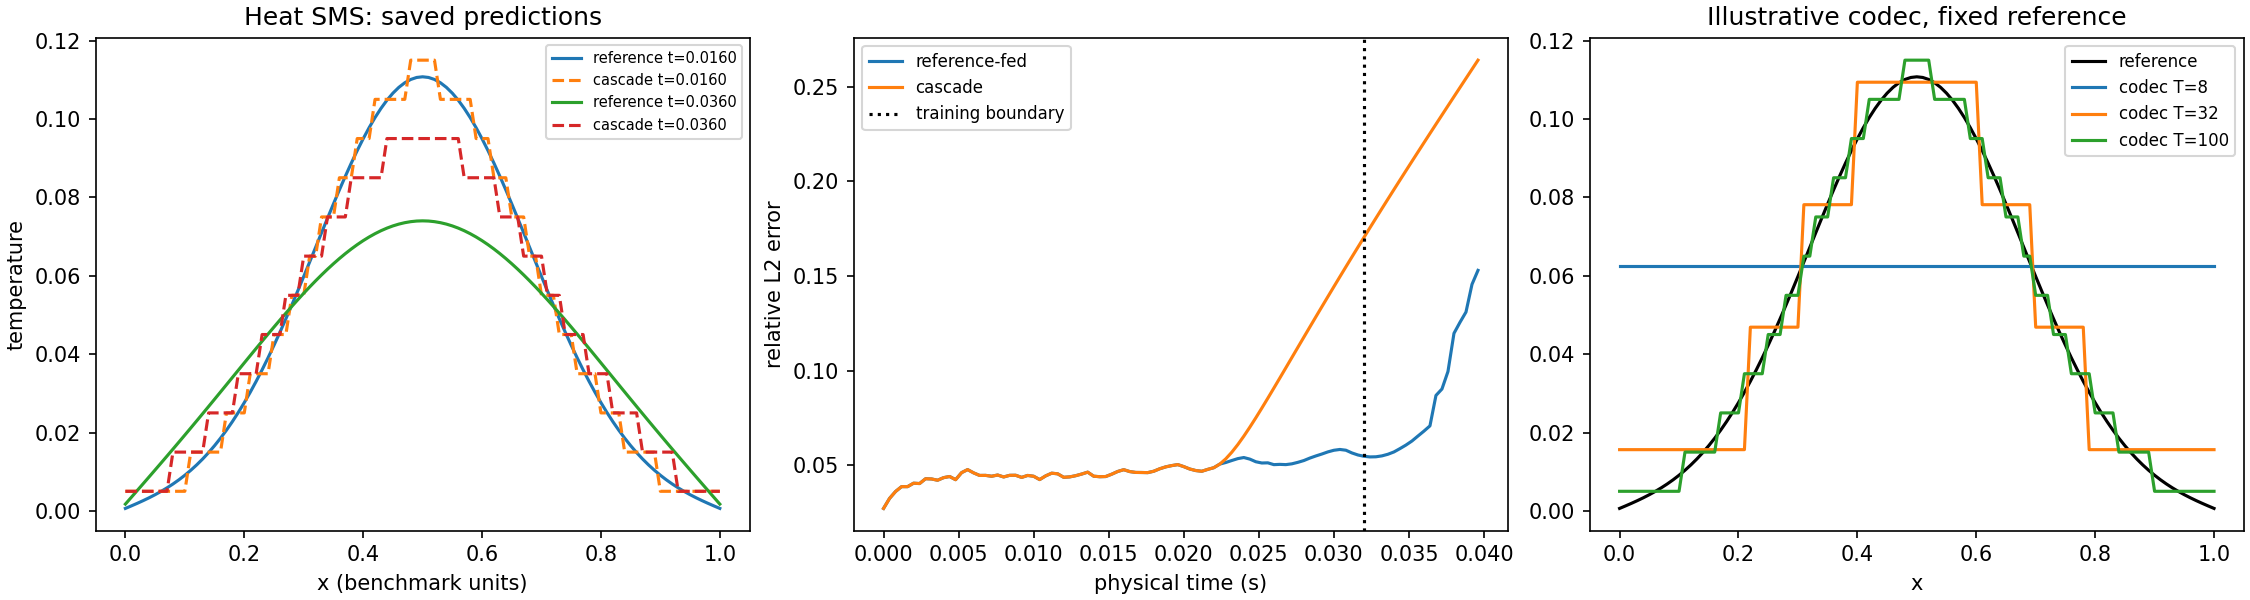
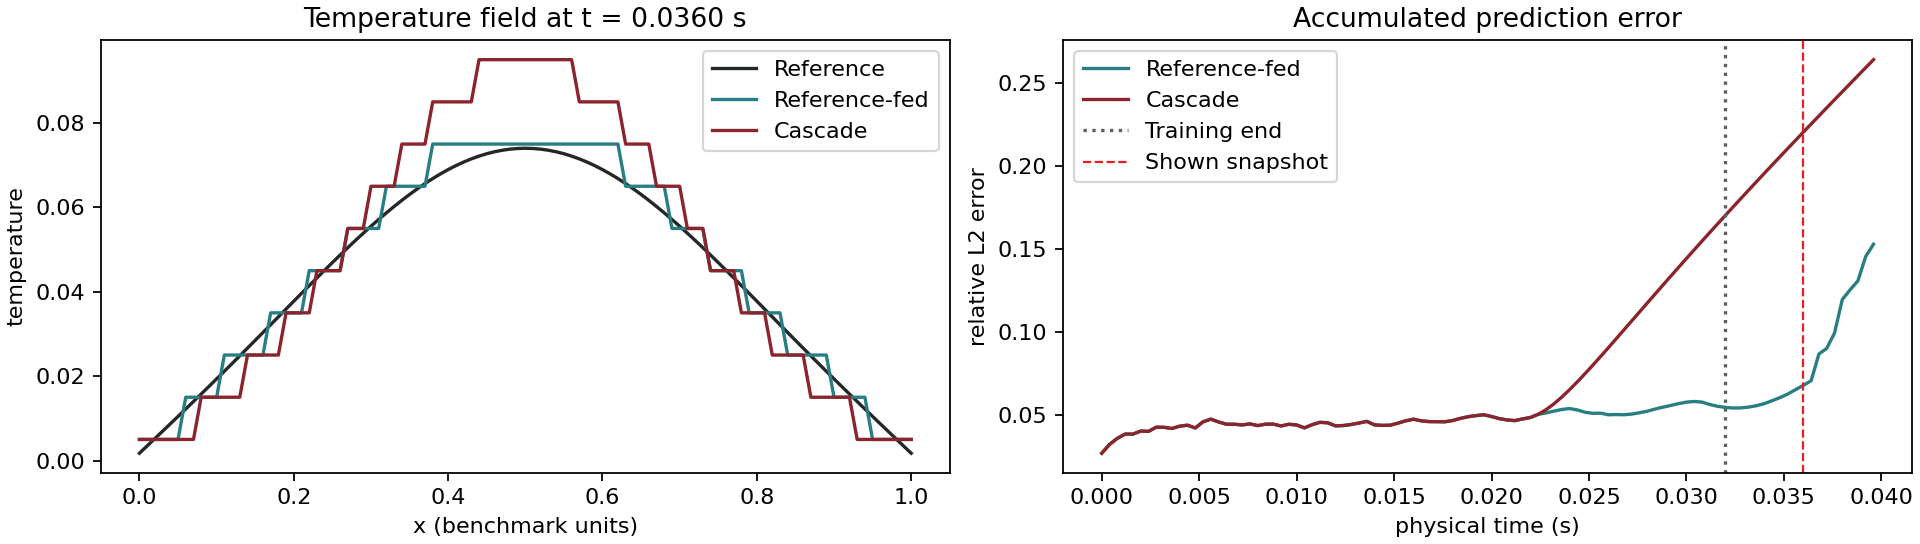
slides: remove codec panel from SMS rollout

diff --git a/components/SMSRollout.vue b/components/SMSRollout.vue
@@ -1,22 +1,19 @@
 <script setup lang="ts">
-import { computed,ref } from 'vue'
+import { computed } from 'vue'
 import { useDefenseAsset,row } from '../composables/useDefenseAsset'
 import { usePlayback } from '../composables/usePlayback'
 const {payload:p,error,staticMode}=useDefenseAsset('ch02/sms_longtime_rollout')
 const count=computed(()=>p.value?.time.shape[0]||100)
 const {index,playing,toggle,seek,reset}=usePlayback(count,40,110)
-const level=ref(2)
 const field=computed(()=>p.value?[{name:'Reference',color:'#232727',y:row(p.value.reference_state,index.value)},{name:'Reference-fed',color:'#287e83',y:row(p.value.one_step_state,index.value)},{name:'Cascade',color:'#8b242d',y:row(p.value.cascade_state,index.value)}]:[])
 const errors=computed(()=>p.value?[{name:'Reference-fed',color:'#287e83',y:p.value.one_step_error.values},{name:'Cascade',color:'#8b242d',y:p.value.cascade_error.values}]:[])
-const codec=computed(()=>{if(!p.value)return [];const t=p.value.T_approximation;const offset=(level.value*count.value+index.value)*101;return [{name:'Reference',color:'#232727',y:row(p.value.reference_state,index.value)},{name:'Codec',color:'#b27a29',y:t.values.subarray(offset,offset+101)}]})
 </script>
 <template>
-<FigureFrame fallback="/fallback_figures/ch02/sms_longtime_rollout.png" :ready="!!p" :error="error" :static-mode="staticMode" caption="Heat equation · K=100 · first two frames initialized · selected-T codec views are illustrative, not retrained models.">
-  <div class="three" style="gap:20px;height:300px">
-    <div><div class="chart-label">Temperature field</div><div class="legend"><span v-for="s in field" :key="s.name" :style="{'--series':s.color}">{{s.name}}</span></div><TracePlot :x="p.coordinates.values" :series="field" x-label="x · benchmark units" y-label="temperature" /></div>
-    <div><div class="chart-label">Accumulated prediction error</div><div class="legend"><span v-for="s in errors" :key="s.name" :style="{'--series':s.color}">{{s.name}}</span></div><TracePlot :x="p.time.values" :series="errors" :cursor="index" :boundary="p.training_end_time" x-label="physical time · s" y-label="relative L₂" @seek="seek" /></div>
-    <div><div class="chart-label">Codec approximation · illustrative</div><div class="legend"><span style="--series:#232727">Reference</span><span style="--series:#b27a29">T={{p.selected_T.values[level]}}</span></div><TracePlot :x="p.coordinates.values" :series="codec" x-label="x · benchmark units" y-label="decoded field" /></div>
+<FigureFrame fallback="/fallback_figures/ch02/sms_longtime_rollout.png" :ready="!!p" :error="error" :static-mode="staticMode" caption="Heat equation · K=100 · first two frames initialized · reference-fed and recursive cascade predictions.">
+  <div class="cols" style="gap:35px;height:320px">
+    <div><div class="chart-label">Temperature field</div><div class="legend"><span v-for="s in field" :key="s.name" :style="{'--series':s.color}">{{s.name}}</span></div><TracePlot :x="p.coordinates.values" :series="field" :width="500" :height="250" x-label="x · benchmark units" y-label="temperature" /></div>
+    <div><div class="chart-label">Accumulated prediction error</div><div class="legend"><span v-for="s in errors" :key="s.name" :style="{'--series':s.color}">{{s.name}}</span></div><TracePlot :x="p.time.values" :series="errors" :width="500" :height="250" :cursor="index" :boundary="p.training_end_time" x-label="physical time · s" y-label="relative L₂" @seek="seek" /></div>
   </div>
-  <div class="plot-controls"><button @click="toggle">{{playing?'Pause':'Play'}}</button><button @click="reset">Reset</button><input aria-label="SMS physical time" type="range" min="0" :max="count-1" :value="index" @input="seek(Number(($event.target as HTMLInputElement).value))"><output>{{p.time.values[index].toFixed(4)}} s</output><label for="codec-t">Codec T</label><select id="codec-t" v-model.number="level"><option v-for="(t,i) in Array.from(p.selected_T.values)" :key="i" :value="i">{{t}}</option></select></div>
+  <div class="plot-controls"><button @click="toggle">{{playing?'Pause':'Play'}}</button><button @click="reset">Reset</button><input aria-label="SMS physical time" type="range" min="0" :max="count-1" :value="index" @input="seek(Number(($event.target as HTMLInputElement).value))"><output>{{p.time.values[index].toFixed(4)}} s</output></div>
 </FigureFrame>
 </template>

diff --git a/scripts/export_defense_assets.py b/scripts/export_defense_assets.py
@@ -54,18 +54,23 @@ def sms(a,m):
              T_approximation_axes=['selected_T','physical_time','space'],
              T_approximation_status='illustrative',
              T_approximation_note=m['selected_T_note']+' Source midpoint decoding is retained, including its upper-end overshoot; no convergence claim for learned rollouts.')
-    fig,ax=plt.subplots(1,3,figsize=(15,4),layout='constrained')
-    for i in [40,90]:
-        ax[0].plot(a['coordinates'],a['reference_state'][i],label=f'reference t={a["time"][i]:.4f}')
-        ax[0].plot(a['coordinates'],a['cascade_state'][i],'--',label=f'cascade t={a["time"][i]:.4f}')
-    ax[0].set(xlabel='x (benchmark units)',ylabel='temperature',title='Heat SMS: saved predictions'); ax[0].legend(fontsize=7)
-    ax[1].plot(a['time'],one_error,label='reference-fed'); ax[1].plot(a['time'],cascade_error,label='cascade')
-    ax[1].axvline(cfg['training_end_time'],color='k',ls=':',label='training boundary')
-    ax[1].set(xlabel='physical time (s)',ylabel='relative L2 error'); ax[1].legend(fontsize=8)
-    ax[2].plot(a['coordinates'],a['reference_state'][40],color='k',label='reference')
-    for T,v in zip(levels,approximations): ax[2].plot(a['coordinates'],v[40],label=f'codec T={T}')
-    ax[2].set(title='Illustrative codec, fixed reference',xlabel='x'); ax[2].legend(fontsize=8)
-    return p,fig
+    return p,plot_sms(a,cfg['training_end_time'],one_error,cascade_error)
+
+
+def plot_sms(a,training_end_time,one_error,cascade_error):
+    fig,ax=plt.subplots(1,2,figsize=(12,3.4),layout='constrained')
+    i=90
+    for key,label,color in [('reference_state','Reference','#232727'),('one_step_state','Reference-fed','#287e83'),('cascade_state','Cascade','#8b242d')]:
+        ax[0].plot(a['coordinates'],a[key][i],label=label,color=color)
+    ax[0].set(xlabel='x (benchmark units)',ylabel='temperature',title=f'Temperature field at t = {a["time"][i]:.4f} s')
+    ax[0].legend(fontsize=10)
+    ax[1].plot(a['time'],one_error,label='Reference-fed',color='#287e83')
+    ax[1].plot(a['time'],cascade_error,label='Cascade',color='#8b242d')
+    ax[1].axvline(training_end_time,color='#596361',ls=':',label='Training end')
+    ax[1].axvline(a['time'][i],color='#ED1C24',ls='--',lw=1,label='Shown snapshot')
+    ax[1].set(xlabel='physical time (s)',ylabel='relative L2 error',title='Accumulated prediction error')
+    ax[1].legend(fontsize=10)
+    return fig
 
 
 def conversion(a,m):

diff --git a/scripts/prepare_sms_fallback.py b/scripts/prepare_sms_fallback.py
@@ -1,0 +1,33 @@
+"""Publish the two-panel SMS fallback from unchanged saved browser predictions."""
+from datetime import datetime, timezone
+import hashlib
+import json
+import os
+from pathlib import Path
+import shutil
+import numpy as np
+from export_defense_assets import plot_sms, plt
+
+assert os.environ.get('SLURM_JOB_ID'), 'Run figure preparation in Slurm'
+root=Path(__file__).resolve().parents[1]
+manifest_path=root/'public/data/manifest.json'
+manifest=json.loads(manifest_path.read_text())
+entry=next(a for a in manifest['assets'] if a['asset_id']=='ch02/sms_longtime_rollout')
+payload=json.loads((manifest_path.parent/entry['path']).read_text())['data']['states'][0]['payload']
+def array(key):
+    tensor=payload[key]
+    return np.asarray(tensor['values']).reshape(tensor['shape'])
+arrays={key:array(key) for key in ['time','coordinates','reference_state','one_step_state','cascade_state']}
+fig=plot_sms(arrays,payload['training_end_time'],array('one_step_error'),array('cascade_error'))
+stamp=datetime.now(timezone.utc).strftime('%Y%m%dT%H%M%S')+'-sms-'+os.environ['SLURM_JOB_ID']
+out=manifest_path.parent/'releases'/stamp/'ch02'
+out.mkdir(parents=True)
+png=out/'sms_longtime_rollout.png'
+fig.savefig(png,dpi=160)
+plt.close(fig)
+shutil.copyfile(png,root/'public/fallback_figures/ch02/sms_longtime_rollout.png')
+entry['fallback_path']='/'+png.relative_to(root/'public').as_posix()
+entry['fallback_sha256']=hashlib.sha256(png.read_bytes()).hexdigest()
+manifest['generated_at']=datetime.now(timezone.utc).isoformat()
+manifest_path.write_text(json.dumps(manifest,indent=2)+'\n')
+print('Published two-panel SMS fallback:',png)

diff --git a/docs/design.md b/docs/design.md
@@ -16,7 +16,7 @@ Distinguish ordinary slide reveals, scripted animation, and interactive inspecti
 
 | Treatment | Content |
 |---|---|
-| Required interaction | SMS/SDON rollout and T approximation; conversion output over T; OCFormer trajectory inspection |
+| Required interaction | SMS/SDON rollout and error evolution; conversion output over T; OCFormer trajectory inspection |
 | Conditional interaction | ET iteration playback; RFormer volume/slice inspection, only after reviewing the evidence |
 | Static main slides | Encoding, calibration, hardware scaling, RFG comparisons, ET physical fidelity, RFormer architecture/results, OCFormer regimes/baselines |
 | Static backups | Extra rollout/swarm cases, ET module/temporal ablations, detailed dataset comparisons |
@@ -55,15 +55,14 @@ Each checkbox in this section represents one interactive plot. The unmarked bull
 
 Primary question: how does recursive prediction evolve and accumulate error beyond the training interval?
 
-- [x] (required) SMSRollout / SDON-SMS: interactively show the reference, one-step and recursive cascade predictions, their error evolution, and the stepwise approximation to the continuous value as T changes.
+- [x] (required) SMSRollout / SDON-SMS: interactively show the reference, one-step and recursive cascade predictions and their error evolution with linked physical-time inspection.
 
 Plot details:
 
 - Select one documented ODE/PDE case for clarity; no required scenario menu.
 - Play/pause advances a common physical-time index. Scrubbing moves markers on reference, prediction (non-cascade and cascade), and error views together.
 - Permanently mark the training/extrapolation boundary. Keep physical time distinct from internal spike horizon K.
-- Choose T values to show how the stepwise function approximates the continuous value.
-- Reset returns to the rehearsed start. The static fallback shows representative times and full error traces.
+- Reset returns to the rehearsed start. The static fallback shows a representative extrapolation snapshot and full error traces.
 - Firing histories, decoded bounds, and a documented ANN comparator are optional supporting evidence, not mandatory payload decorations.
 
 Bounded decoded values are a property of the codec, not a general stability/convergence theorem. Do not invent a PINN blow-up comparison.

diff --git a/docs/interactive_data.md b/docs/interactive_data.md
@@ -9,7 +9,7 @@ the plots is local to `public/`; source cluster files are not runtime inputs.
 
 | Component | State | Data |
 |---|---|---|
-| SMSRollout | `heat_triangular--saved_K100` | 100 physical frames, 101 spatial points, reference/one-step/cascade, both error traces, training boundary, codec T=8/32/100 views |
+| SMSRollout | `heat_triangular--saved_K100` | 100 physical frames, 101 spatial points, reference/one-step/cascade, both error traces, training boundary |
 | ConversionOverT | `helmholtz_l1_k15--saved_T064_prefix` | 64 internal steps, 24 emitted POD coefficients, reconstructed fields on 1600 mesh nodes, fixed POD basis/mean/scales, ANN and numerical reference, separate errors |
 | DroneSwarm3D | `ball_3d_M16--saved_lbfgs` | 200 original frames over 10 seconds, 16 agents in 3D, sphere geometry, three diagnostic traces, exact event indices/identities/positions |
 
@@ -24,11 +24,10 @@ relative error must remain visible; do not label it negligible or substitute
 the Poisson encoding table's errors. The source FDM endpoint stencil is retained
 even though the thesis writes ideal zero Dirichlet boundaries.
 
-The selected-T view evaluates the source codec on the same reference field.
-It is explicitly **illustrative**, not predictions from three separately
-trained SMS networks. The midpoint decoder and global [0,1] normalization are
-preserved. K=100 is the saved model's spike horizon. Physical-time scrubbing
-and codec-T selection are independent controls.
+The main SMS slide shows only the saved predictions and accumulated errors,
+linked by physical-time playback and scrubbing. K=100 is the saved model's
+spike horizon. Historical selected-T codec arrays remain in the archived
+payload for provenance but are not displayed or selectable in the deck.
 
 Conversion uses a documented saved Helmholtz POD evaluation, marked
 **exploratory** relative to thesis claims. `loop_step` is zero-based; show

diff --git a/slides/ch02-spiking-foundations.md b/slides/ch02-spiking-foundations.md
@@ -62,4 +62,4 @@ source: 'Thesis Chapter 2 · fig:snn:pde-heat · Saved heat run, K=100; unsmooth
 
 <SMSRollout />
 
-<!-- Demo: start around t=0.016 s; play through the training marker at 0.032 s and inspect the growing relative error. Pause, then select codec T=8,32,100. The codec view is illustrative and does not compare separately trained models. Initial two frames are encoded reference histories. No stability theorem is inferred from this case. -->
+<!-- Demo: start around t=0.016 s; play through the training marker at 0.032 s and inspect the growing relative error. Initial two frames are encoded reference histories. No stability theorem is inferred from this case. -->

diff --git a/README.md b/README.md
@@ -104,7 +104,7 @@ it does not run Python tests that require ignored raw experiment captures.
 
 ## Interactive figures
 
-- SMS: linked physical-time field/error views; T=8/32/100 codec demonstration.
+- SMS: linked physical-time prediction and error views; reference-fed versus recursive cascade.
 - Burgers (slide 11): exactly three panels—reference, SNN, SNN−reference.
   Play or select every integer prefix T=1–128; only SNN and difference
   change. Fixed scales and native pixels preserve the actual solution.
